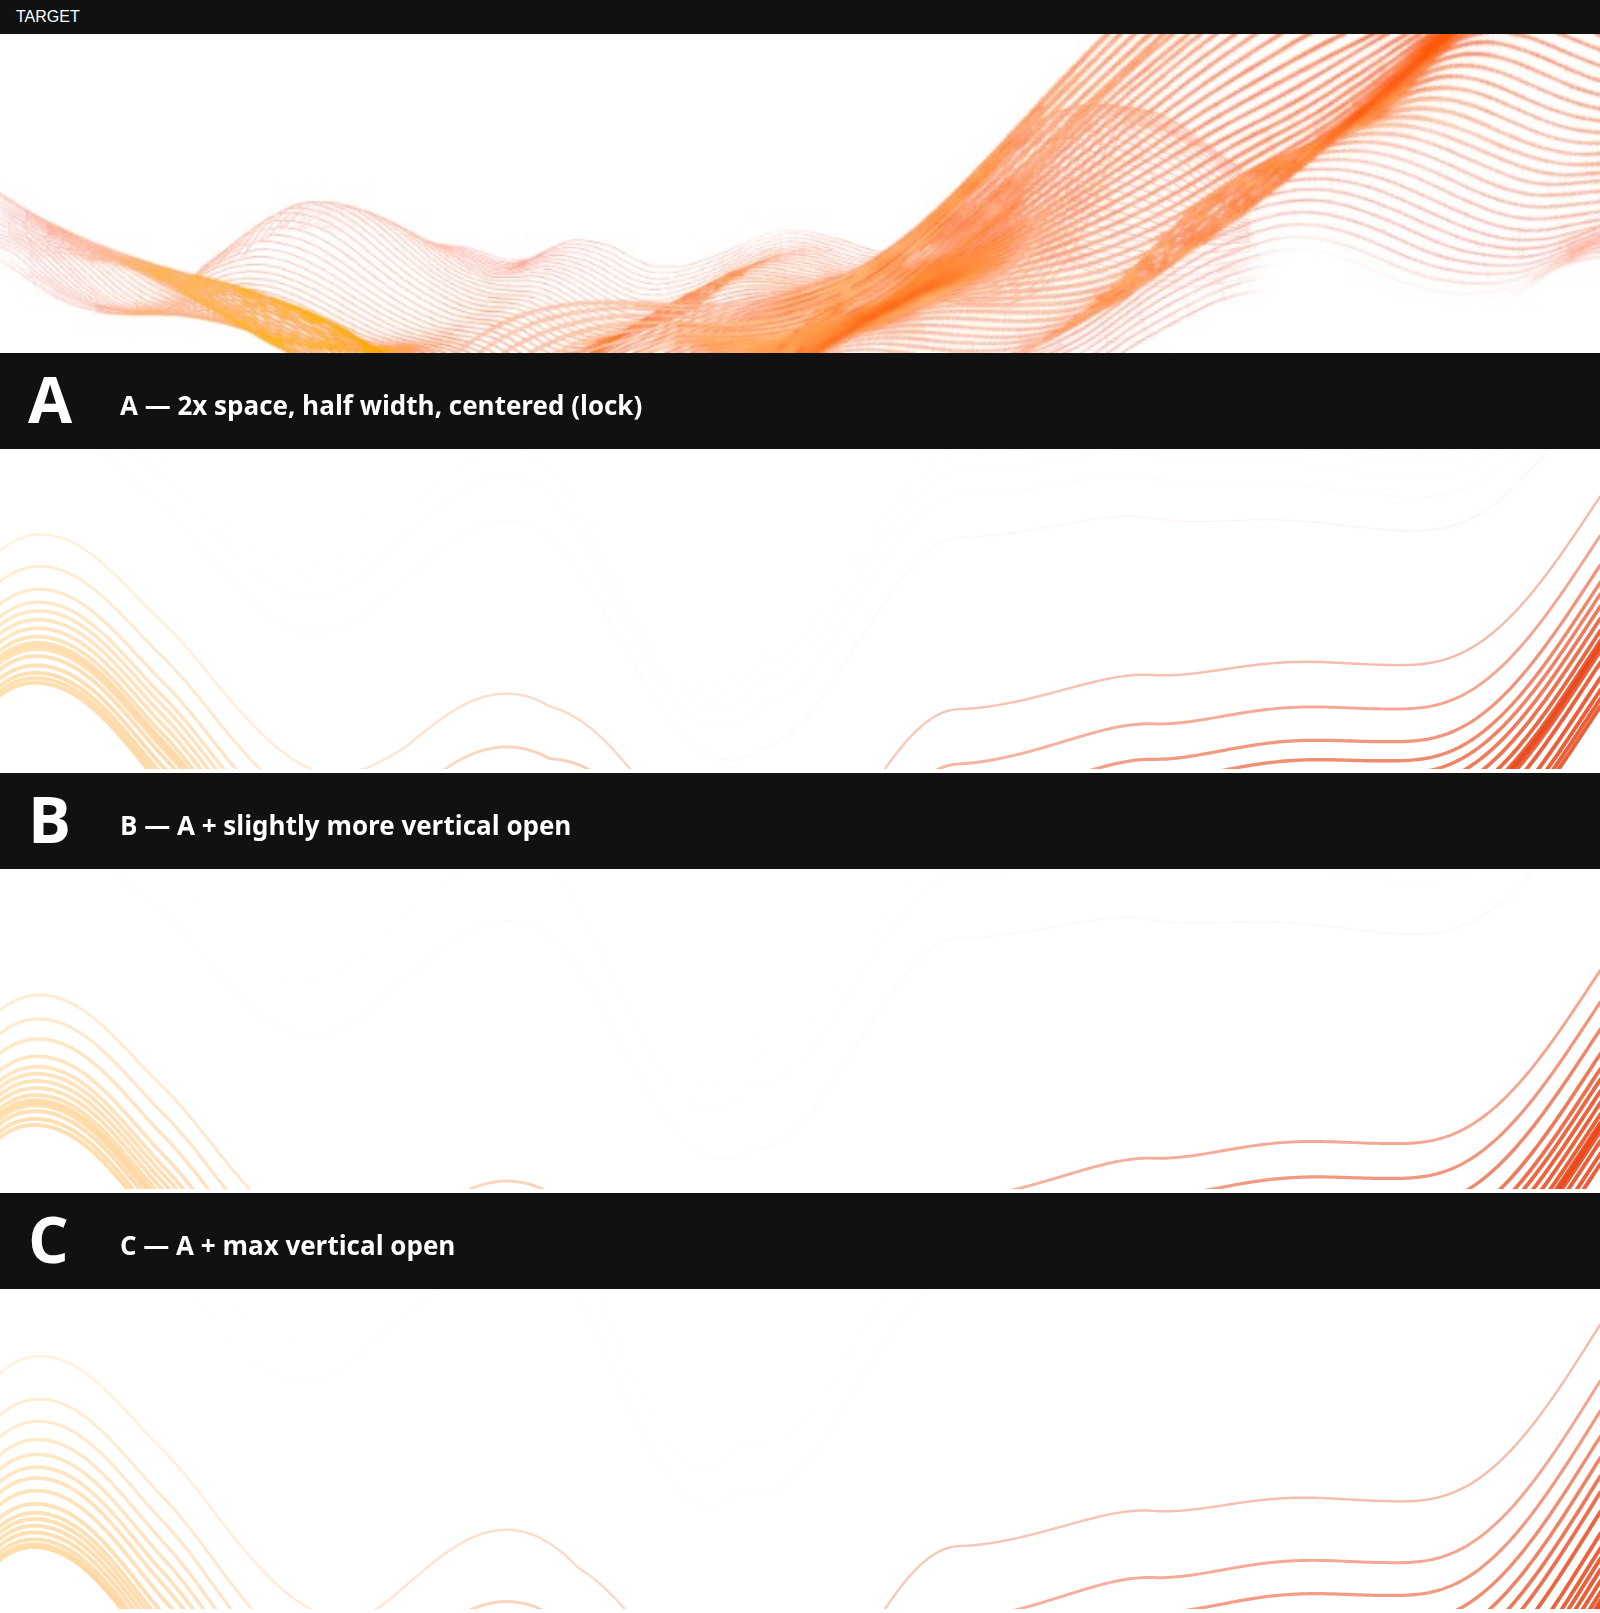
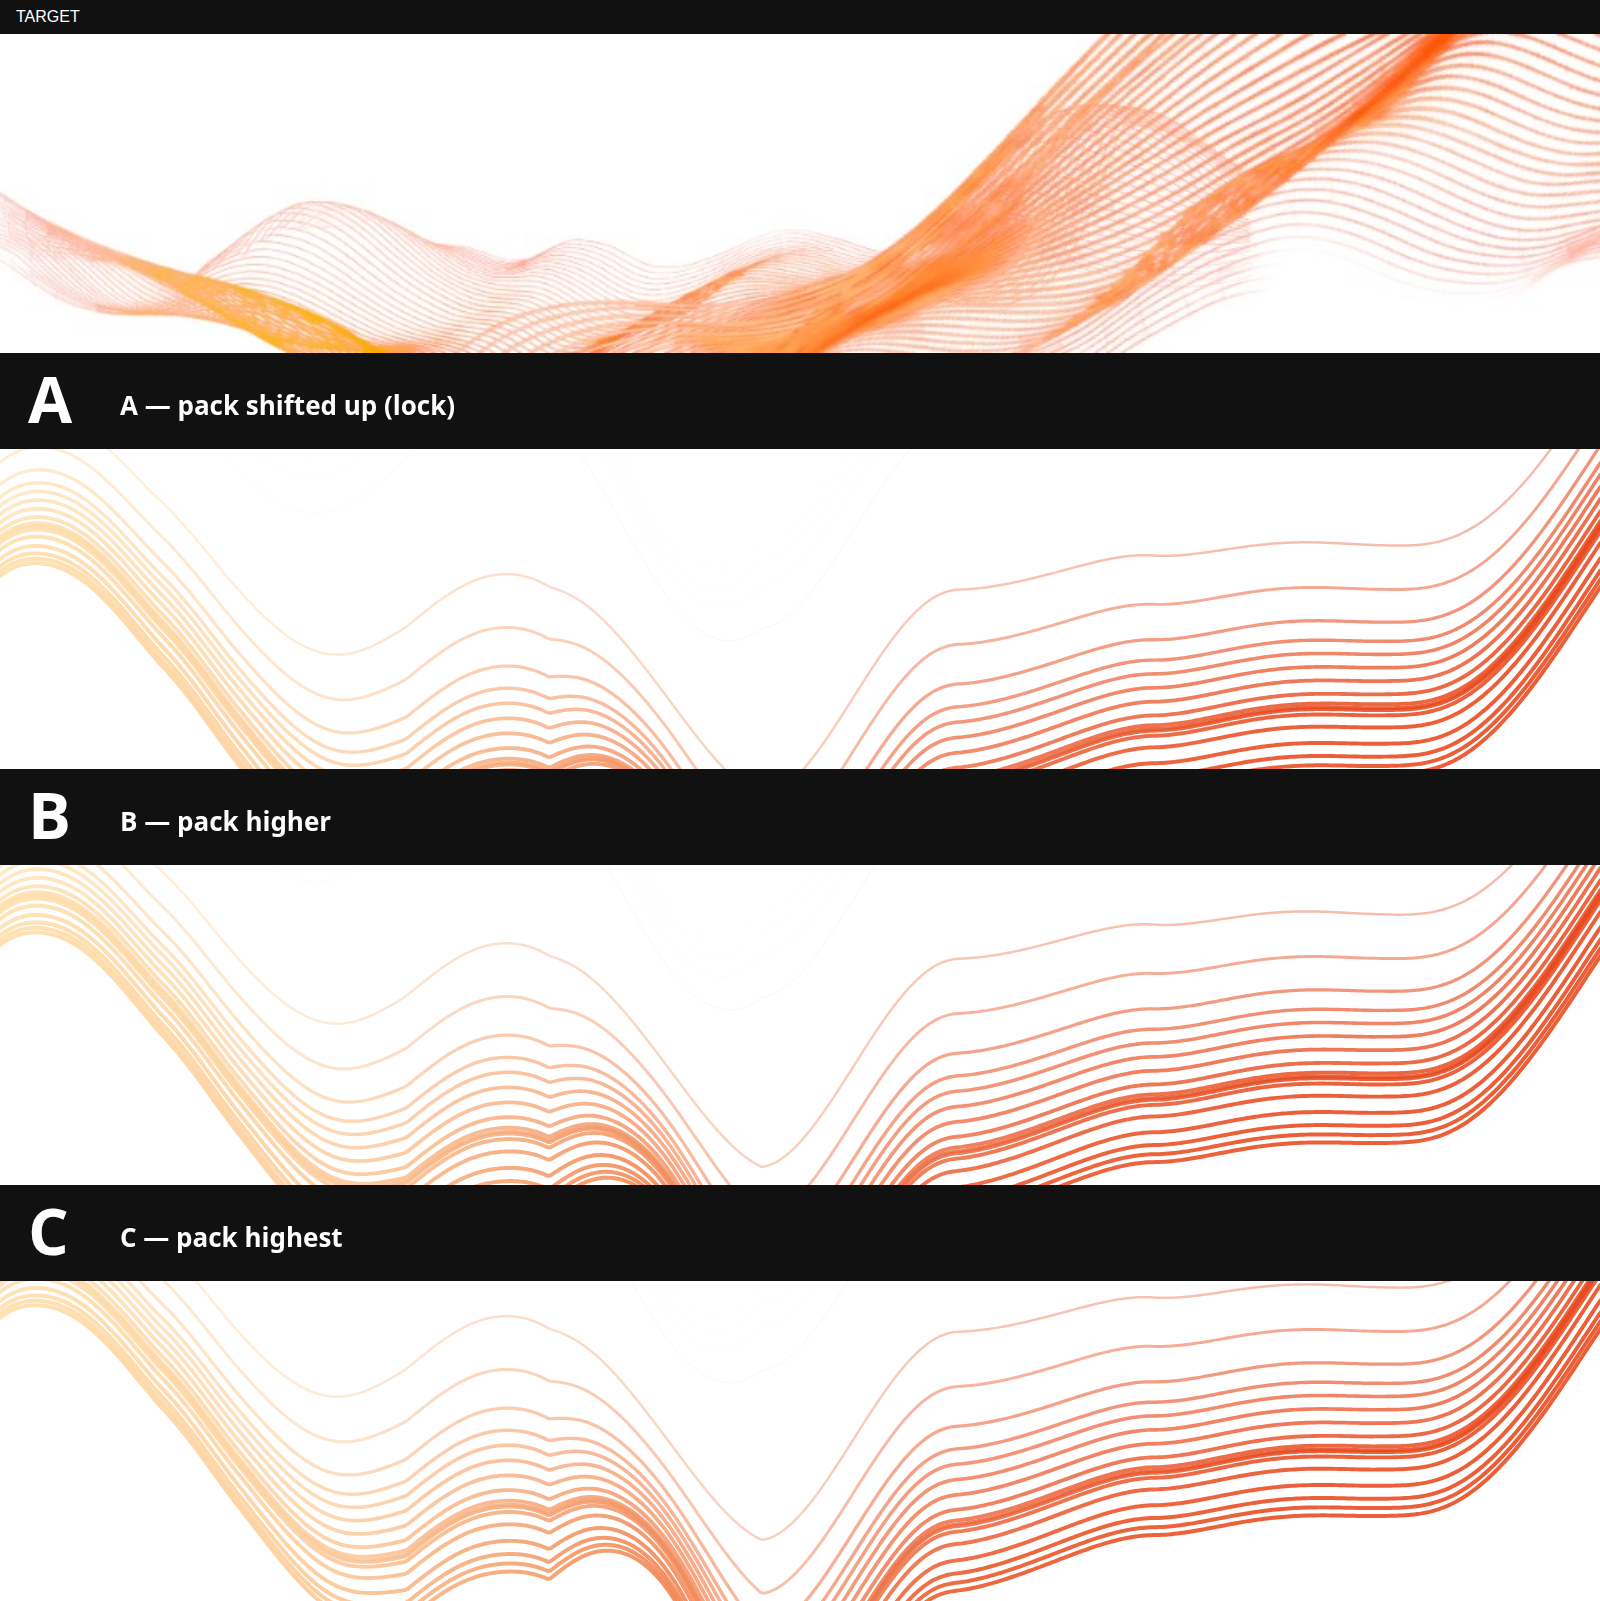
fix(lab): shift entire Twizzler pack up the Y axis (#CF-16)
Align visible-ink average to centerY (not mid-canvas) so the whole
ribbon moves up; banner locked at centerY 0.34.

diff --git a/apps/lab/src/twizzler.ts b/apps/lab/src/twizzler.ts
@@ -702,7 +702,7 @@ export function buildTwizzlerLines(
     });
   }
 
-  // Vertically center on visible ink (ignore off-canvas outliers that bias the mean low).
+  // Align visible-ink average to settings.centerY (lower = entire pack higher on screen).
   let ySum = 0;
   let yCount = 0;
   for (const line of lines) {
@@ -714,7 +714,8 @@ export function buildTwizzlerLines(
     }
   }
   if (yCount > 0) {
-    const shift = pixelHeight * 0.5 - ySum / yCount;
+    const targetY = pixelHeight * settings.centerY;
+    const shift = targetY - ySum / yCount;
     for (const line of lines) {
       for (const point of line.points) {
         point.y += shift;
